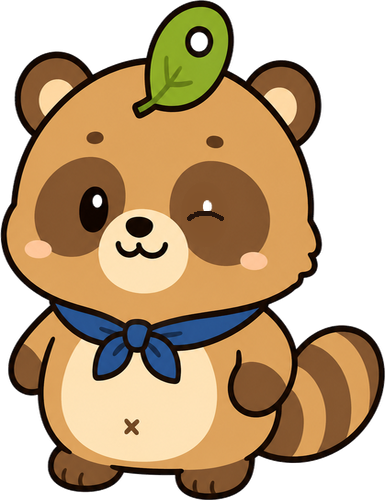
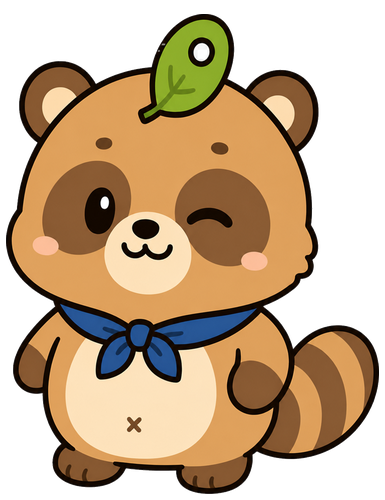
Add files via upload

diff --git a/app.js b/app.js
@@ -3191,7 +3191,7 @@ function labelFor(k){
 }
 
 // おらマチ オリジナルマスコット「おらっち」(角/触角なし・まんまる目・ω口)
-const MASCOT_ASSET_VERSION = '20260714e';
+const MASCOT_ASSET_VERSION = '20260714f';
 const MASCOT_IMAGES = {
   normal: `mascot-normal.png?v=${MASCOT_ASSET_VERSION}`,
   wink:   `mascot-wink.png?v=${MASCOT_ASSET_VERSION}`,
